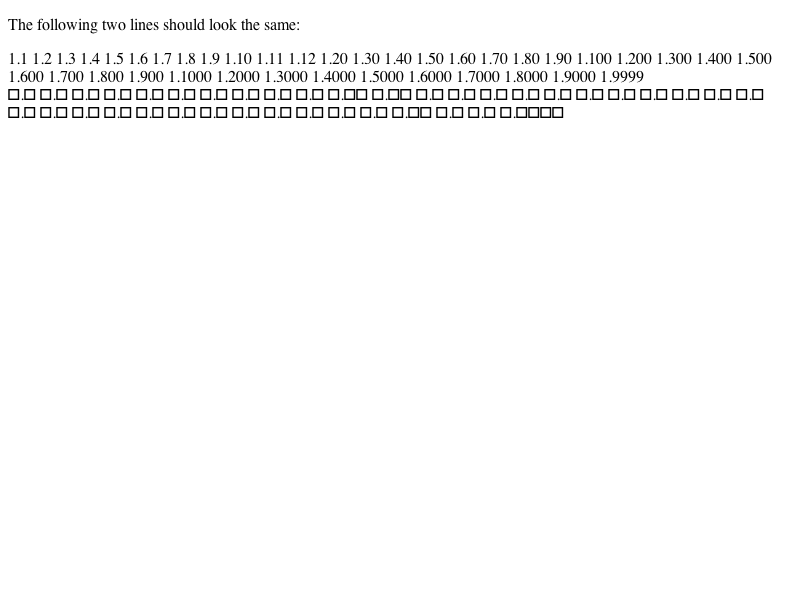
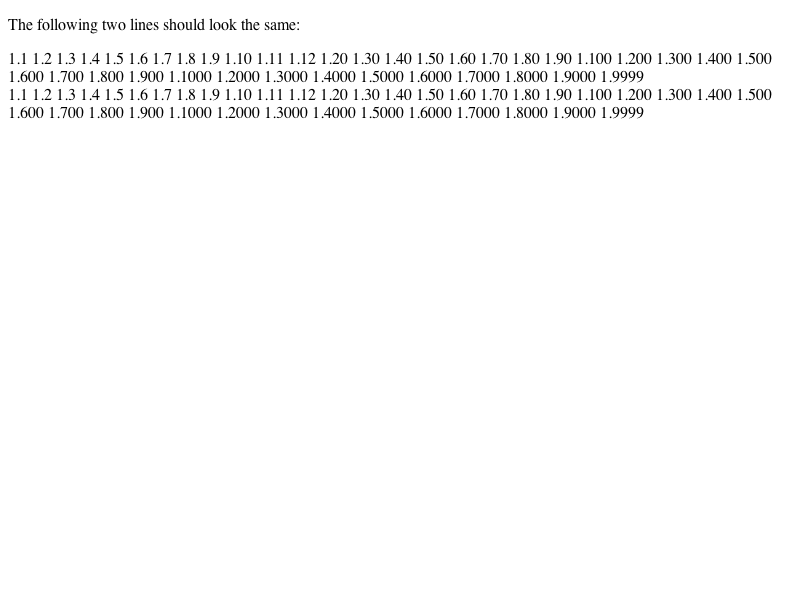
Reviewed by Geoff.
Changing these counters tests because they fail on some people's 
        machines. They fail for people who have the Armenian glyphs the 
        tests were looking for in the "expected" line. There is no point in 
        testing that anyway, since we do not currently support Armenian in 
        counters or in list markers.

        * fast/css/counters/counter10-expected.checksum:
        * fast/css/counters/counter10-expected.png:
        * fast/css/counters/counter10-expected.txt:
        * fast/css/counters/counter10.html:
        * fast/css/counters/counters10-expected.checksum:
        * fast/css/counters/counters10-expected.png:
        * fast/css/counters/counters10-expected.txt:
        * fast/css/counters/counters10.html:

git-svn-id: http://svn.webkit.org/repository/webkit/trunk/LayoutTests@17182 268f45cc-cd09-0410-ab3c-d52691b4dbfc

Changed region(s): [[0.0, 0.15, 0.9688, 0.21]]

diff --git a/fast/css/counters/counters10.html b/fast/css/counters/counters10.html
@@ -10,7 +10,7 @@
 
   body, #test span:first-child { counter-reset: c; }
   p, #test span { counter-increment: c; }
-  #test span:before { content: counters(c, ".", armenian); }
+  #test span:before { content: counters(c, "."); }
 
   </style>
  </head>
@@ -60,46 +60,46 @@
    <span style="counter-reset: c 9998"></span>
  </div>
 
- <div>
-   &#x531;.&#x531;
-   &#x531;.&#x532;
-   &#x531;.&#x533;
-   &#x531;.&#x534;
-   &#x531;.&#x535;
-   &#x531;.&#x536;
-   &#x531;.&#x537;
-   &#x531;.&#x538;
-   &#x531;.&#x539;
-   &#x531;.&#x53A;
-   &#x531;.&#x53A;&#x531;
-   &#x531;.&#x53A;&#x532;
-   &#x531;.&#x53B;
-   &#x531;.&#x53C;
-   &#x531;.&#x53D;
-   &#x531;.&#x53E;
-   &#x531;.&#x53F;
-   &#x531;.&#x540;
-   &#x531;.&#x541;
-   &#x531;.&#x542;
-   &#x531;.&#x543;
-   &#x531;.&#x544;
-   &#x531;.&#x545;
-   &#x531;.&#x546;
-   &#x531;.&#x547;
-   &#x531;.&#x548;
-   &#x531;.&#x549;
-   &#x531;.&#x54A;
-   &#x531;.&#x54B;
-   &#x531;.&#x54C;
-   &#x531;.&#x54D;
-   &#x531;.&#x54E;
-   &#x531;.&#x54F;
-   &#x531;.&#x550;
-   &#x531;.&#x551;
-   &#x531;.&#x548;&#x552;
-   &#x531;.&#x553;
-   &#x531;.&#x554;
-   &#x531;.&#x554;&#x54B;&#x542;&#x539;
+<div>
+    1.1
+    1.2
+    1.3
+    1.4
+    1.5
+    1.6
+    1.7
+    1.8
+    1.9
+    1.10
+    1.11
+    1.12
+    1.20
+    1.30
+    1.40
+    1.50
+    1.60
+    1.70
+    1.80
+    1.90
+    1.100
+    1.200
+    1.300
+    1.400
+    1.500
+    1.600
+    1.700
+    1.800
+    1.900
+    1.1000
+    1.2000
+    1.3000
+    1.4000
+    1.5000
+    1.6000
+    1.7000
+    1.8000
+    1.9000
+    1.9999
  </div>
 
  </body>

diff --git a/fast/css/counters/counter10.html b/fast/css/counters/counter10.html
@@ -10,7 +10,7 @@
 
   #test { counter-reset: c; }
   #test span { counter-increment: c; }
-  #test span:before { content: counter(c, armenian); }
+  #test span:before { content: counter(c); }
 
   </style>
  </head>
@@ -61,46 +61,46 @@
  </div>
 
  <div>
-   &#x531;
-   &#x532;
-   &#x533;
-   &#x534;
-   &#x535;
-   &#x536;
-   &#x537;
-   &#x538;
-   &#x539;
-   &#x53A;
-   &#x53A;&#x531;
-   &#x53A;&#x532;
-   &#x53B;
-   &#x53C;
-   &#x53D;
-   &#x53E;
-   &#x53F;
-   &#x540;
-   &#x541;
-   &#x542;
-   &#x543;
-   &#x544;
-   &#x545;
-   &#x546;
-   &#x547;
-   &#x548;
-   &#x549;
-   &#x54A;
-   &#x54B;
-   &#x54C;
-   &#x54D;
-   &#x54E;
-   &#x54F;
-   &#x550;
-   &#x551;
-   &#x548;&#x552;
-   &#x553;
-   &#x554;
-   &#x554;&#x54B;&#x542;&#x539;
+    1
+    2
+    3
+    4
+    5
+    6
+    7
+    8
+    9
+    10
+    11
+    12
+    20
+    30
+    40
+    50
+    60
+    70
+    80
+    90
+    100
+    200
+    300
+    400
+    500
+    600
+    700
+    800
+    900
+    1000
+    2000
+    3000
+    4000
+    5000
+    6000
+    7000
+    8000
+    9000
+    9999
  </div>
-
+ 
  </body>
 </html>
